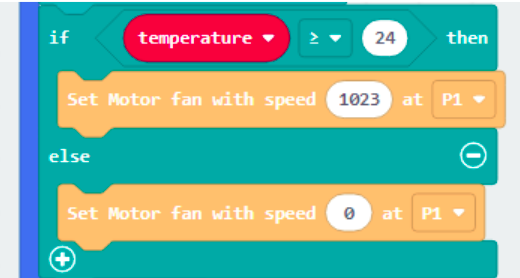
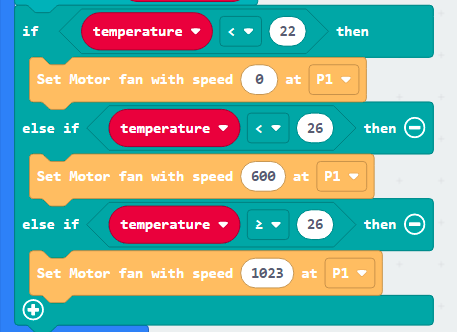
update case 4 to 5

diff --git a/docs/smartHomeIoT/case05.md b/docs/smartHomeIoT/case05.md
@@ -1,1 +1,140 @@
-# Case 05: Security vanguard
+# Case 05: Relaxing Enjoyable Musical Living Room
+
+Level: ![level](images/level2.png)
+![auto_fit](images/Case5/blank.png)<P>
+
+## Goal
+<HR>
+
+Create a group of micro:bit and remote to play music and change light color.<BR><P>
+
+## Background
+<HR>
+
+<span id="subtitle">What is the Relaxing Enjoyable Musical Living Room?</span><P>
+Relaxing Enjoyable Musical Living Room aims to give a better mood when people stay inside the room. When they press the control button, the corresponding music and light effect will occur to provide suitable ambience.<BR><P>
+
+<span id="subtitle">Musical Living Room Principle </span><P>
+Micro:bit includes the radio function, allowing two or more Micro:bit to form a group and communicate in a small area. <BR>
+When one of the Micro:bit receives the message from the other Micro:bit, it will use the buzzer to play a different tone or music, at the same time, the multi-color LED can be changed to have better ambience.
+
+## Part List
+<HR>
+
+![auto_fit](images/Case5/blank.png)<P>
+
+## Assembly step
+<HR>
+
+<span id="subtitle">Step 1</span><P>
+Use M4 screws and nuts to install the Multi-Color LED to the house wall<BR><P>
+![auto_fit](images/Case5/Case5_ass1.png)<P>
+
+## Hardware connect
+<HR>
+
+1. Connect the Multi-Color LED to P1
+2. Pull down the buzzer switch to bottom position
+
+![auto_fit](images/Case5/Case5_hardware.png)<P>
+
+## Programming (MakeCode)
+<HR>
+
+<H2>Sender</H2>
+
+
+<span id="subtitle">Step 1. Connect to radio group</span><P>
+* In `on Start`, put a `radio set group 1` to join the radio group 1
+![auto_fit](images/Case5/Case5_p1.png)<P>
+
+<span id="subtitle">Step 2. Send message to group</span><P>
+* Snap `on button A pressed` to editor
+* In `on button A pressed`, put a `radio send string funny` to send `funny` message to group 1 micro:bits
+* Repeat the steps with minor changes on the trigger button and string to create other message sender for `excited` and `stop_music`
+![auto_fit](images/Case5/Case5_p2.png)<P><P>
+
+<HR>
+<H2>Receiver</H2>
+
+<span id="subtitle">Step 1. Connect to radio group and initialize LED and music flag</span><P>
+* Create a variable called `mode`
+* In `on Start`, put a `radio set group 1` to join the radio group 1
+* Initialize Multi-Color LED by `set strip to NeoPixel at pin P1 with 1 leds as RGB(GRB format)`
+* Set the variable mode value to 0 by `set mode to 0`
+
+![auto_fit](images/Case5/Case5_p3.png)<P>
+
+<span id="subtitle">Step 2. Examine the radio message and take action</span><P>
+* Snap `on radio received receivedstring` block to editor
+* Put a nested `if-else` statement inside that block
+* In the first condition, use `receivedstring = stop_music` to filter out the `stop_music` message, change the `mode` flag variable to `0`
+* In the second condition, use `receivedstring = funny` to filter out the `funny` message, change the `mode` flag variable to `1`
+* In the third condition, use `receivedstring = excited` to filter out the `excited` message, change the `mode` flag variable to `2`
+
+![auto_fit](images/Case5/Case5_p4.png)<P>
+
+<span id="subtitle">Step 3. Make the change color function</span><P>
+
+* Create two function called `rainbow` and `flash`
+* For each function, use `strip show color XXX` and `pause(ms) XXX` to fill in the pattern of color changes as you want
+
+![auto_fit](images/Case5/Case5_p5.png)<P>
+
+<span id="subtitle">Step 4. Change LED color by the flag</span><P>
+
+The color of LED should be change following by the flag
+
+Flag | Meaning
+ :| :  
+0|stop_music
+1|funny
+2|excited
+
+* Put a nested `if-else` statement inside the `Forever`
+* Use `mode = 0` as the first condition
+* In the first `if` segment, that's means `stop_music`, stop the playing sound by `stop all sounds`
+* Turn off the LED by `strip show color black`
+* Use `mode = 1` as the second condition
+* In the second `if` segment, that's means `funny`, stop the playing sound by `stop all sounds`, then play a funny music with `start melody prelude repeating once`
+* Execute the function to change to rainbow pattern by `call Rainbow`
+* Use `mode = 2` as the third condition
+* In the third `if` segement, that's means `excited`, stop the playing sound by `stop all sounds`, then play a excited music with `start melody chase repeating once`
+* Execute the function to change to flash pattern by `call flash`
+
+![auto_fit](images/Case5/Case5_p6.png)<P>
+
+
+<HR>
+
+<span id="subtitle">Full Solution<BR><P>
+
+<H3>Sender</H3>
+
+MakeCode: [https://makecode.microbit.org/_JF0RtbVihXDD](https://makecode.microbit.org/_JF0RtbVihXDD)<BR><P>
+You could also download the program from the following website:<BR>
+<iframe src="https://makecode.microbit.org/#pub:_JF0RtbVihXDD" width="100%" height="500" frameborder="0"></iframe>
+
+<H3>Receiver</H3>
+
+MakeCode: [https://makecode.microbit.org/_azUYbd8AuXY1](https://makecode.microbit.org/_azUYbd8AuXY1)<BR><P>
+You could also download the program from the following website:<BR>
+<iframe src="https://makecode.microbit.org/#pub:_azUYbd8AuXY1" width="100%" height="500" frameborder="0"></iframe><P>
+
+## Results
+<HR>
+
+After loaded two program to each micro:bit,<BR>
+When the sender micro:bit sends the `funny` message, receiver micro:bit will play the funny music and the light will show in rainbow mode.<BR>
+When the sender micro:bit sends the `excited` message, receiver micro:bit will play the excited music and the light will show in flash mode.<BR>
+When the sender micro:bit sends the `stop_music` message, receiver micro:bit will stop the music and turn off the light.
+<BR><P>
+![auto_fit](images/Case5/Case5_result.png)<P>
+
+## Think
+<HR>
+
+1. Apart from the built in melody, can you make your own music melody?
+2. Can you control other hardware like a motor fan using radio control? 
+
+

diff --git a/docs/smartHomeIoT/case04.md b/docs/smartHomeIoT/case04.md
@@ -1,1 +1,95 @@
-# Case 04: Smart Automatic Curtain
+# Case 04: Mechanical Password Switch Door
+
+Level: ![level](images/level2.png)
+![auto_fit](images/Case4/blank.png)<P>
+
+## Goal
+<HR>
+Make a mechanical door that open upon button pressed and correct password input<BR><P>
+
+## Background
+<HR>
+
+<span id="subtitle">What is a mechanical password switch door?</span><P>
+Mechanical password switch door is a door that can open automatically to respond to some specific commands, in this case on a button pressed and password input correctly. Deploying it at home can assist users when they are carrying things, or to save time.<BR><P>
+
+![pic_70](images/Case4/blank.png)<P>
+
+
+## Part List
+<HR>
+
+![pic](images/Case4/blank.png)<P>
+
+## Assembly step
+<HR>
+
+<span id="subtitle">Step 1</span><P>
+Use M4 screws and nuts to install the button on the wall<BR><P>
+![pic](images/Case4/Case4_ass1.png)<P>
+<span id="subtitle">Step 2</span><P>
+Install the servo on the ground and connect to the door by hook 
+<BR><P>
+![pic](images/Case4/Case4_ass2.png)<P>
+
+## Hardware connect
+<HR>
+
+1. Connect the button module to P0
+2. Connect the 180 degree servo to P1
+3. Pull up the buzzer switch to disconnect from buzzer
+
+![pic](images/Case4/Case4_hardware.png)<P>
+
+## Programming (MakeCode)
+<HR>
+
+<span id="subtitle">Step 1. Create variable and initialize the servo</span><P>
+* Create a variable called `count_A`, `count_B`, `door_open`
+![auto_fit](images/Case4/Case4_p1.png)<P>
+* In `on Start`, initialize the state of door to closed by `set door_open to false` and `Turn 180 Servo to 45 degree at P1`, also set the count variable `count_A` and `count_B` to `0`
+![auto_fit](images/Case4/Case4_p2.png)<P>
+
+<span id="subtitle">Step 2. Monitoring the button pressing state and take action</span><P>
+* Snap the `When Button at P0 pressed` block to editor
+* Put a `if-else` statement in the `When Button at P0 pressed` block
+* Set the condition to `door_open = true`
+* In the `if` segment, that's mean the door should open, control the servo to open the door by `Turn 180 servo to 180 degree at P1`, after that, reset the variable `door_open` to `false` for close the door later
+* In the `else` segment, that's mean the door should close, control the servo close the door by `Turn 180 servo to 45 degree at P1`
+![auto_fit](images/Case4/Case4_p3.png)<P>
+
+<span id="subtitle">Step 3. password input method</span><P>
+* Snap `on button A pressed` to editor
+* Use `change count_A by 1` to increase the count variable by 1
+* Repeat the step with minor different on target to let button B also can increase `count_B`
+![auto_fit](images/Case4/Case4_p4.png)<P>
+
+<span id="subtitle">Step 4. Examine the password</span><P>
+* Snap `on button A+B pressed` to editor
+* Put a `if-else` statement inside
+* Use `count_A = 2 and count_B = 3` as condition, you may also change it to your favourite password
+* In the `if` segment, that's means the input is correct, `show icon tick`, and `set door_open to true` to allow open the door when press the extended button
+* In the `else` segment, that's means the input is not correct, `show icon cross`, and `set door_open to false` to denied open the door when press the extended button
+* Reset the two count variable `count_A` and `count_B` to `0` for next input
+
+![auto_fit](images/Case4/Case4_p5.png)<P>
+
+<span id="subtitle">Full Solution<BR><P>
+MakeCode: [https://makecode.microbit.org/_4ocgihEmh6CF](https://makecode.microbit.org/_4ocgihEmh6CF)<BR><P>
+You could also download the program from the following website:<BR>
+<iframe src="https://makecode.microbit.org/#pub:_4ocgihEmh6CF" width="100%" height="500" frameborder="0"></iframe>
+
+
+## Results
+<HR>
+
+After pressing the correct number of button A and B, press A+B to do the validation.<BR>If it is the correct password, press the extended button, the door will open. Press again, the door will close.<BR><P>
+![pic](images/Case4/Case4_result.png)<P>
+
+## Think
+<HR>
+
+Apart from using a physical button, are there better ways of controlling the open and close of the door?
+
+1. Can it make a doorbell to produce sound when the door is opening?
+2. Other than the door, can the switch apply to other usage? (e.g control LED)

diff --git a/docs/smartHomeIoT/case03.md b/docs/smartHomeIoT/case03.md
@@ -60,26 +60,29 @@ Use M4 screws and nuts to install the motor module on the opposite Wall<BR><P>
 * In `Forever`, put (set temperature to `DHT11 Read temperature at pin p0`)
 * Before update the screen infomation, suggest clear up the OLED display each time
 * Use `clear OLED display` to clear the display
-* Then use `show number temperature` to show the temperature value on display
+* Then use `show string join Temp: temperature` to show the temperature value with formatted text on display
 ![pic_90](images/Case3/Case3_p3.png)<P>
 
 <span id="subtitle">Step 4. Examine the temperature</span><P>
-* In `Forever`, put a `if-else` statement
-* Use the `temperature >= 24` as condition
-* In the `if` segment, turn on the fan by `Set Motor fan with speed 1023 at P1`
-* In the `else` segment, turn off the fan by `Set Motor fan with speed 0 at P1`
+* In `Forever`, put a nested `if-else` statement
+* Use the `temperature < 22` as first condition
+* In the first `if` segment, turn off the fan by `Set Motor fan with speed 0 at P1`
+* Use the `temperature < 26` as second condition
+* In the second `if` segment, turn on the fan with half speed by `Set Motor fan with speed 600 at P1`
+* Use the `temperature >= 26` as third condition
+* In the third `if` segment, turn on the fan with full speed by `Set Motor fan with speed 1023 at P1`
 ![pic_90](images/Case3/Case3_p4.png)<P>
 
 <span id="subtitle">Full Solution<BR><P>
-MakeCode: [https://makecode.microbit.org/_d0VLr5bkUY7T](https://makecode.microbit.org/_d0VLr5bkUY7T)<BR><P>
+MakeCode: [https://makecode.microbit.org/_2fMJtCPdCP6L](https://makecode.microbit.org/_2fMJtCPdCP6L)<BR><P>
 You could also download the program from the following website:<BR>
-<iframe src="https://makecode.microbit.org/#pub:_d0VLr5bkUY7T" width="100%" height="500" frameborder="0"></iframe>
+<iframe src="https://makecode.microbit.org/#pub:_2fMJtCPdCP6L" width="100%" height="500" frameborder="0"></iframe>
 
 
 ## Result
 <HR>
 
-When the room temperature increases to above the preset value, it will trigger the condition and turn on the fans, after temperature gets back to normal value, the fan will turn off.<BR><P>
+When the room temperature changing, it will match either one of the condition, and the fans will turn on or off with different speed according to the room temperature.<BR><P>
 ![pic](images/Case3/Case3_result.png)<P>
 
 ## Think

diff --git a/docs/smartHomeIoT/case06.md b/docs/smartHomeIoT/case06.md
@@ -1,1 +1,2 @@
-# Case 06: Toilet Water leakage system
+# Case 06: Toilet water leakage detection system
+
